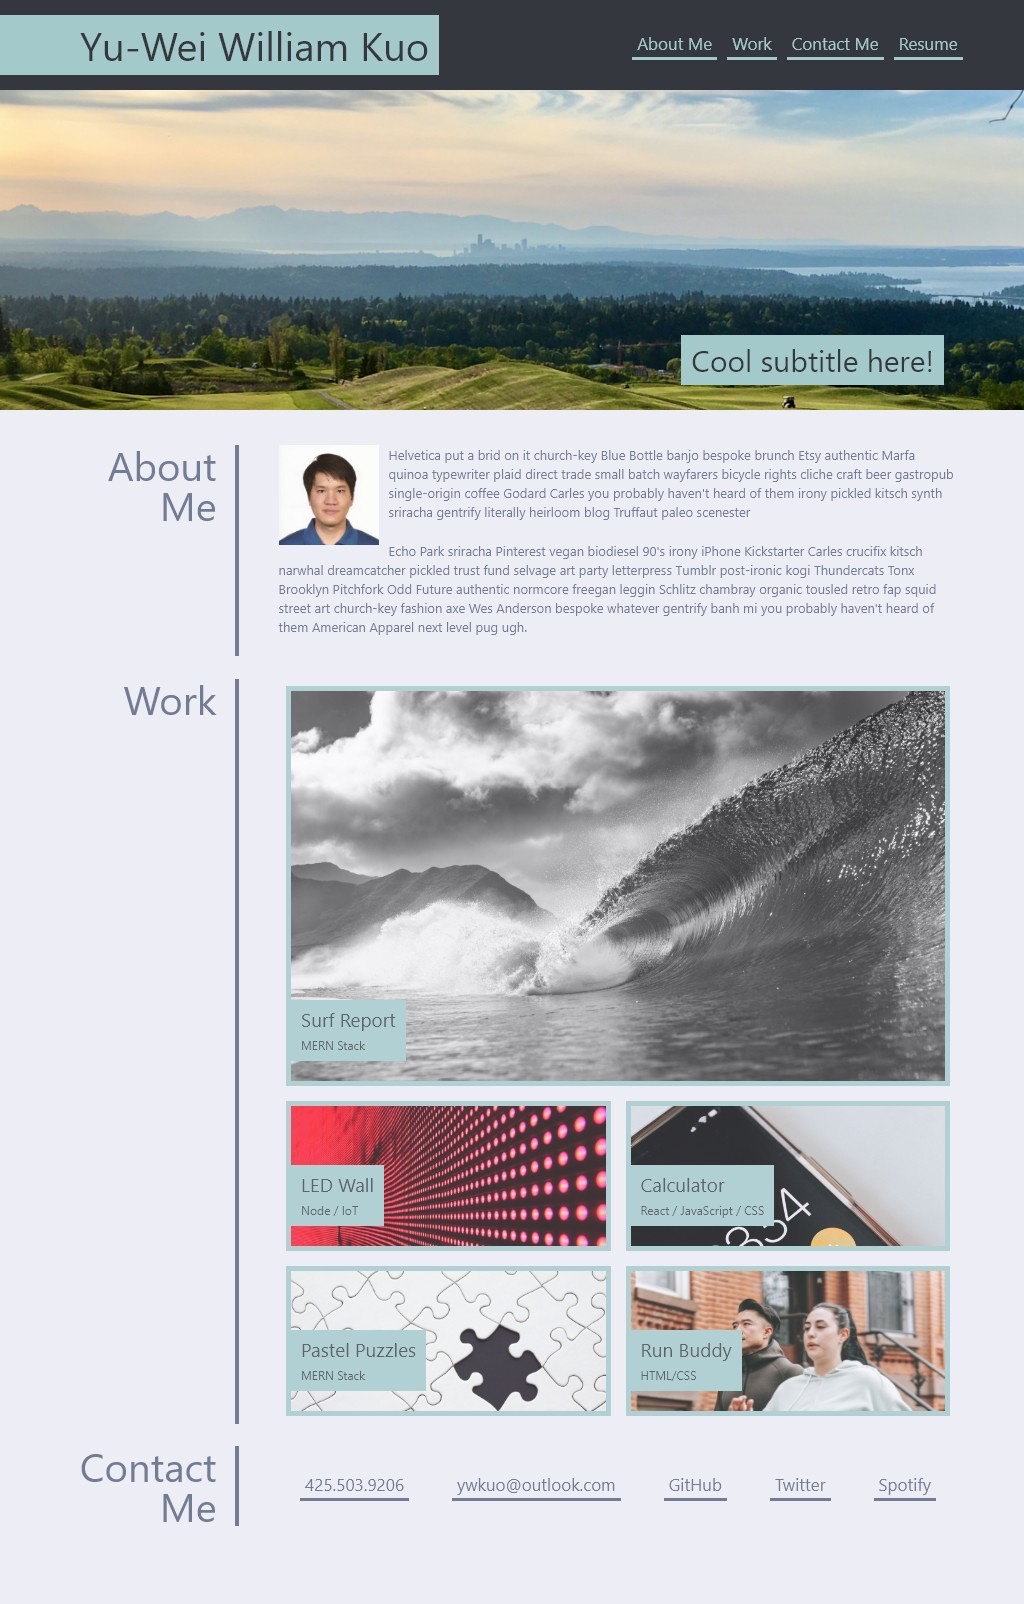
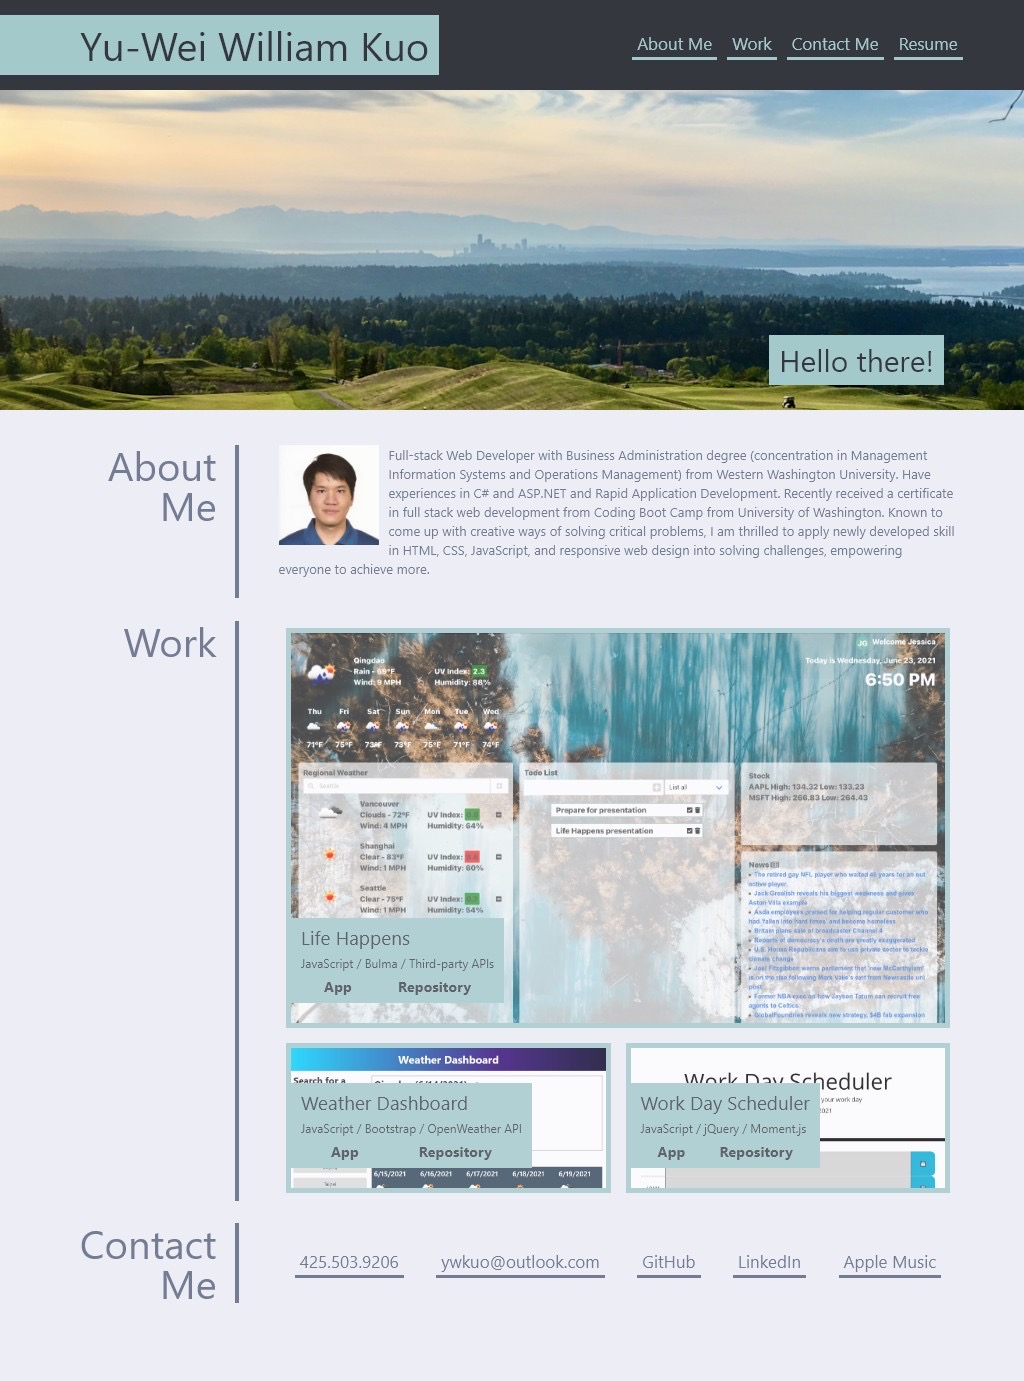
June 30th code update #3: - Updated the screenshot in ReadMe.md and content.

diff --git a/README.md b/README.md
@@ -6,19 +6,13 @@ This is Yu-Wei "William" Kuo's portfolio to demonstrate William's journey from z
 ## Screenshot
 ![Screenshot of my portfolio.](assets/images/screenshot.jpeg)
 
-## Credits
+## Deployed Application
+https://ywkuo227.github.io/ywk-portfolio/
 
-Stormy ocean with big wave
-Photo by Kammeran Gonzalez-Keola from Pexels
+## Updates:
+June 30th:
+- Replaced placeholders with actual portfolio work.
+- Added missing links and resume.
 
-Red Lights in Line on Black Surface
-Photo by Pixabay from Pexels
-
-Smartphone with calculator app showing total amount
-Photo by Karolina Grabowska from Pexels
-
-White Jigsaw Puzzle Illustration
-Photo by Pixabay from Pexels
-
-Determined young obese woman with male Asian personal trainer jogging on street
-Photo by Andres Ayrton from Pexels
+May 15th:
+- Initial update with placeholders.
